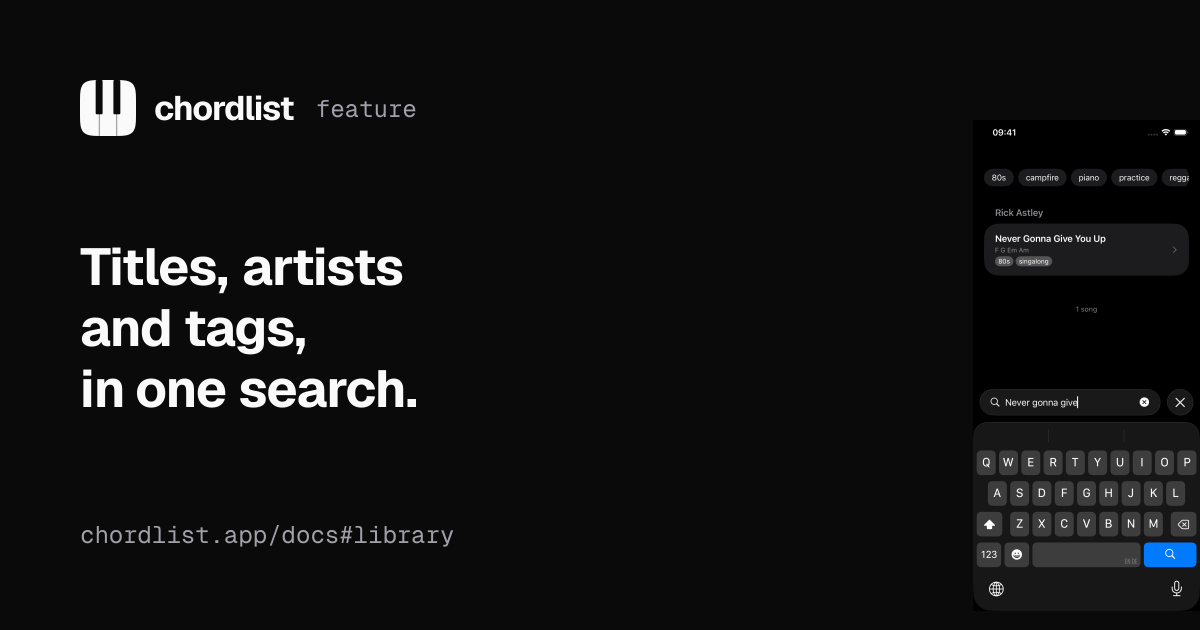
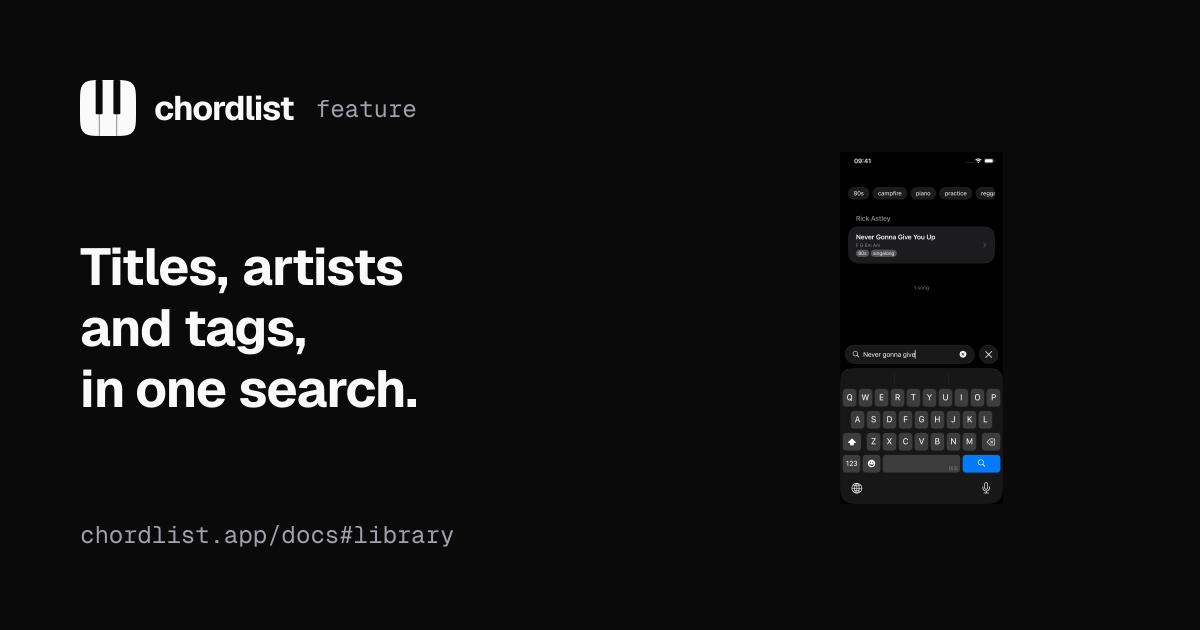
Compose social cards in two columns
The card is the only landscape format, and it was the only one not using the
width. A screenshot was placed with the same rule as a post — oversized, bled off
the right edge — which on a 1.91:1 canvas left it pinned to the edge and cropped
by the bottom. A file excerpt was stacked under its headline, so the two split
352px of height and the excerpt, the one thing on that card that has to read as
text, came out smallest.

Cards now divide at the golden section: copy left, subject right. The division
yields to the copy rather than colliding with it, so a headline wider than its
share pushes the subject right instead of being run into, and the gap between
them holds either way. A screenshot, being a fixed-size object rather than a
block of text, is centred in what the column leaves over — with a short headline
that puts it about two thirds across — and is sized to the drawing box, so the
card shows the whole screen. A file excerpt takes the column itself, at the full
height, which roughly halves the shrink a headline used to cost it.

Only the card changes: post and story keep the bleed, and a file with no headline
has no second column to fill, so it keeps the full width. The editor's canvas
preview mirrors both rules, and the five affected cards are regenerated.

Claude-Session: https://claude.ai/code/session_01TRR1qFRTtwtWojUZAbKUhf

diff --git a/components/social-post-editor.tsx b/components/social-post-editor.tsx
@@ -199,6 +199,18 @@ function fitFont(
   return Math.round(size)
 }
 
+/** The widest of `copy` as it will render, for laying out beside it. */
+function measureLines(
+  context: CanvasRenderingContext2D,
+  copy: string[],
+  size: number,
+  weight: number,
+  family: string,
+) {
+  context.font = `${weight} ${Math.round(size)}px ${family}`
+  return Math.max(0, ...copy.map((line) => context.measureText(line).width))
+}
+
 function drawTextLines(
   context: CanvasRenderingContext2D,
   copy: string[],
@@ -441,6 +453,12 @@ async function renderPost(
   const bodyHeight = bodyBottom - bodyTop
   const headline = lines(config.headline)
 
+  // The box a template may draw in, as scripts/build-social.mjs computes it. The
+  // preview's own body box sits a gap lower, so the card layouts below size
+  // against this one to land where the build puts them.
+  const innerHeight = format.height - padding * 2 - safeTop - safeBottom - Math.round((56 + 24 * 2.6) * scale)
+  const columnGap = Math.round(64 * scale)
+
   if (config.template === "statement" || config.template === "photo") {
     const size = fitFont(context, headline, 78 * scale, innerWidth, 700, sans)
     const lineHeight = 1.14
@@ -516,9 +534,18 @@ async function renderPost(
     const rowCount = meta.length + body.length + (separator ? 1 : 0)
     const filename = config.filename.trim()
 
-    const headlineSize = headline.length ? fitFont(context, headline, 52 * scale, innerWidth, 700, sans) : 0
+    // On a card a headline puts the excerpt in the subject column beside it
+    // rather than under it, so neither pays for the other's height.
+    const twoColumn = formatName === "card" && headline.length > 0
+    const column = subjectColumn(innerWidth, columnGap, 0, 0)
+    const contentWidth = twoColumn ? column.width : innerWidth
+    const contentX = padding + (twoColumn ? column.start : 0)
+
+    const headlineSize = headline.length
+      ? fitFont(context, headline, 52 * scale, twoColumn ? column.start - columnGap : innerWidth, 700, sans)
+      : 0
     const headlineGap = 56 * scale
-    const headlineHeight = headline.length ? headline.length * headlineSize * 1.2 + headlineGap : 0
+    const headlineHeight = headline.length && !twoColumn ? headline.length * headlineSize * 1.2 + headlineGap : 0
 
     const filenameSize = Math.round(24 * scale)
     const ruleGap = 20 * scale
@@ -526,7 +553,7 @@ async function renderPost(
 
     // Mirrors the file template in scripts/lib/social-templates.mjs: fitted by
     // width and by height, because an excerpt is a block rather than a phrase.
-    const widthCap = fitFont(context, [...meta, ...body], 38 * scale, innerWidth, 400, mono, 0.5)
+    const widthCap = fitFont(context, [...meta, ...body], 38 * scale, contentWidth, 400, mono, 0.5)
     const heightCap = (bodyHeight - headlineHeight - chromeHeight) / Math.max(1, rowCount * 1.5)
     const size = Math.round(Math.max(38 * scale * 0.5, Math.min(widthCap, heightCap)))
     const row = Math.round(size * 1.5)
@@ -538,10 +565,10 @@ async function renderPost(
       context.fillStyle = activeTheme.muted
       context.font = `400 ${filenameSize}px ${mono}`
       context.textBaseline = "top"
-      context.fillText(filename, padding, y)
+      context.fillText(filename, contentX, y)
       y += filenameSize * 1.4 + ruleGap
       context.fillStyle = activeTheme.rule
-      context.fillRect(padding, y, innerWidth, Math.max(1, Math.round(scale)))
+      context.fillRect(contentX, y, contentWidth, Math.max(1, Math.round(scale)))
       y += ruleGap
     }
 
@@ -549,17 +576,20 @@ async function renderPost(
     context.font = `400 ${size}px ${mono}`
     meta.forEach((line, index) => {
       context.fillStyle = activeTheme.muted
-      context.fillText(line, padding, y + index * row)
+      context.fillText(line, contentX, y + index * row)
     })
     y += meta.length * row + (separator ? row : 0)
     body.forEach((line, index) => {
       context.fillStyle = activeTheme.text
-      context.fillText(line, padding, y + index * row)
+      context.fillText(line, contentX, y + index * row)
     })
     y += body.length * row
 
     if (headline.length) {
-      drawTextLines(context, headline, padding, y + headlineGap, headlineSize, 1.2, activeTheme.text, 700, sans)
+      const headlineY = twoColumn
+        ? bodyTop + (bodyHeight - headline.length * headlineSize * 1.2) / 2
+        : y + headlineGap
+      drawTextLines(context, headline, padding, headlineY, headlineSize, 1.2, activeTheme.text, 700, sans)
     }
   }
 
@@ -570,15 +600,31 @@ async function renderPost(
     const detailRatio = activeFormatRatio(formatName, { card: 0.76, post: 0.62, story: 0.58 })
     const visibleRatio = activeFormatRatio(formatName, { card: 1, post: 0.73, story: 0.68 })
     const copyRatio = activeFormatRatio(formatName, { card: 0.58, post: 0.48, story: 0.45 })
-    const shotY = top + markSize * 0.7
-    const shotHeight = format.height - shotY - activeFormatRatio(formatName, { card: 18, post: 24, story: 28 }) * scale
-    const shotWidth = shotHeight * (detail ? detailRatio : screenshotRatio)
-    const cardFrameInset = formatName === "card" && config.deviceFrame ? Math.max(2, 2 * scale) * 50  : 0
-    const shotX = format.width - shotWidth * visibleRatio - cardFrameInset
     const copyWidth = innerWidth * copyRatio
     const copySize = fitFont(context, headline, 52 * scale, copyWidth, 700, sans)
     const copyHeight = headline.length * copySize * 1.18
     const copyY = bodyTop + (bodyHeight - copyHeight) / 2
+
+    // The card holds the whole phone inside the subject column; the portrait
+    // formats run it past the right edge. Mirrors the screenshot template in
+    // scripts/lib/social-templates.mjs.
+    const contained = formatName === "card"
+    const bleedTop = top + markSize * 0.7
+    const shotHeight = contained
+      ? Math.min(format.height * 0.78, innerHeight)
+      : format.height - bleedTop - activeFormatRatio(formatName, { card: 18, post: 24, story: 28 }) * scale
+    const shotWidth = shotHeight * (detail ? detailRatio : screenshotRatio)
+    const shotY = contained ? bodyTop + (bodyHeight - shotHeight) / 2 : bleedTop
+    const outerWidth = shotWidth + (config.deviceFrame ? Math.max(2, 2 * scale) * 2 : 0)
+    const shotX = contained
+      ? padding +
+        subjectColumn(
+          innerWidth,
+          columnGap,
+          headline.length ? measureLines(context, headline, copySize, 700, sans) : 0,
+          outerWidth,
+        ).left
+      : format.width - shotWidth * visibleRatio
 
     drawScreenshot(
       context,
@@ -597,6 +643,21 @@ async function renderPost(
 
 function activeFormatRatio<Value>(format: FormatName, values: Record<FormatName, Value>) {
   return values[format]
+}
+
+/**
+ * Mirrors `subjectColumn()` in scripts/lib/social-templates.mjs: the golden
+ * section a card divides on, pushed right by copy that renders wider than its
+ * share. The build predicts that width from the character count because satori
+ * cannot measure text; here the canvas measures it, so the two can disagree by a
+ * few pixels on a headline that fills its column exactly.
+ */
+function subjectColumn(innerWidth: number, gutter: number, textWidth: number, subjectWidth: number) {
+  const start = Math.max(Math.round(innerWidth * 0.618), textWidth > 0 ? Math.round(textWidth) + gutter : 0)
+  const width = Math.max(0, innerWidth - start)
+  const centred = start + Math.round(Math.max(0, width - subjectWidth) / 2)
+
+  return { start, width, left: Math.max(0, Math.min(centred, innerWidth - subjectWidth)) }
 }
 
 function importedSource(source: string) {

diff --git a/docs/social-media-system.md b/docs/social-media-system.md
@@ -76,10 +76,12 @@ chordlist. Requires `chords`; `numerals` and `headline` are optional.
 footnote so the asset stays self-sourcing when it is screenshotted onward. Requires `headline`;
 `attribution` is optional.
 
-**`screenshot`** — a real device screenshot from `public/app-screenshots/dark/` running large off
-the right edge beside a short line. `full` keeps the complete screen visible; `detail` uses a larger
-top-aligned crop when the interface needs to read at timeline size. Screenshots are never tinted or
-perspective-tilted. Requires `screenshot`, naming a file in that directory.
+**`screenshot`** — a real device screenshot from `public/app-screenshots/dark/` beside a short line.
+On a `post` or a `story` it runs large off the right edge; on a `card` it sits whole inside the
+subject column (see [Composing a card](#composing-a-card)). `full` keeps the complete screen
+visible; `detail` uses a larger top-aligned crop when the interface needs to read at timeline size.
+Screenshots are never tinted or perspective-tilted. Requires `screenshot`, naming a file in that
+directory.
 
 **`file`** — a song as it sits on disk: an optional filename, an optional frontmatter block, and the
 chord and lyric lines, set in the mono face with the spacing preserved exactly as authored. The
@@ -89,6 +91,22 @@ as a file. Requires `lines`. See [Setting a file](#setting-a-file) below.
 **`photo`** — editorial photography as a full-bleed backdrop with typography over it. Requires
 `photo`, naming a master in `assets/visual-references/analog-photography/`. See
 [Using the photography](#using-the-photography) below, which has rules the other templates do not.
+
+## Composing a card
+
+The `card` is the only landscape format, and the only one wide enough to hold two things side by
+side. Where a `post` or a `story` stacks copy over a subject that bleeds off the edge, a card puts
+the copy in a left column and the subject — a screenshot, a file excerpt — in a right one.
+
+The division is the golden section: copy takes the major part, the subject the minor. It yields to
+the copy rather than colliding with it, so a headline that renders wider than its share pushes the
+subject right until it is flush with the padding, and the gap between them stays the same either
+way. A screenshot, which is a fixed-size object rather than a block of text, is centred in whatever
+the column leaves over — with a short headline that puts it around two thirds across. It is also
+sized to the drawing box rather than overrunning it, so a card shows the whole screen.
+
+This applies to the `card` only. Nothing about the portrait formats changed, and a template that
+has no second column to fill — a `file` with no headline — keeps the full width.
 
 ## Setting a file
 
@@ -109,9 +127,10 @@ Three things to know before writing one:
   in `filename`, `frontmatter`, and `lines`, and names the offending character. Indent a folder tree
   with spaces — the `├──` in the docs page is the first thing anyone reaches for, and it is the one
   thing that cannot be used here.
-- **A headline is optional and expensive.** On a `card` a headline and a six-row excerpt cannot both
-  be large. Either let the file carry the asset on its own, or keep the excerpt to about five short
-  rows.
+- **A headline moves the excerpt into a column.** On a `card`, a headline puts the two side by side
+  — headline left, excerpt in the subject column — so neither is paying for the other's height. The
+  excerpt is then fitted to a third of the width, which suits five short rows rather than six long
+  ones. On a `post` they stack, and a headline does cost the excerpt height.
 
 ## Using the photography
 
